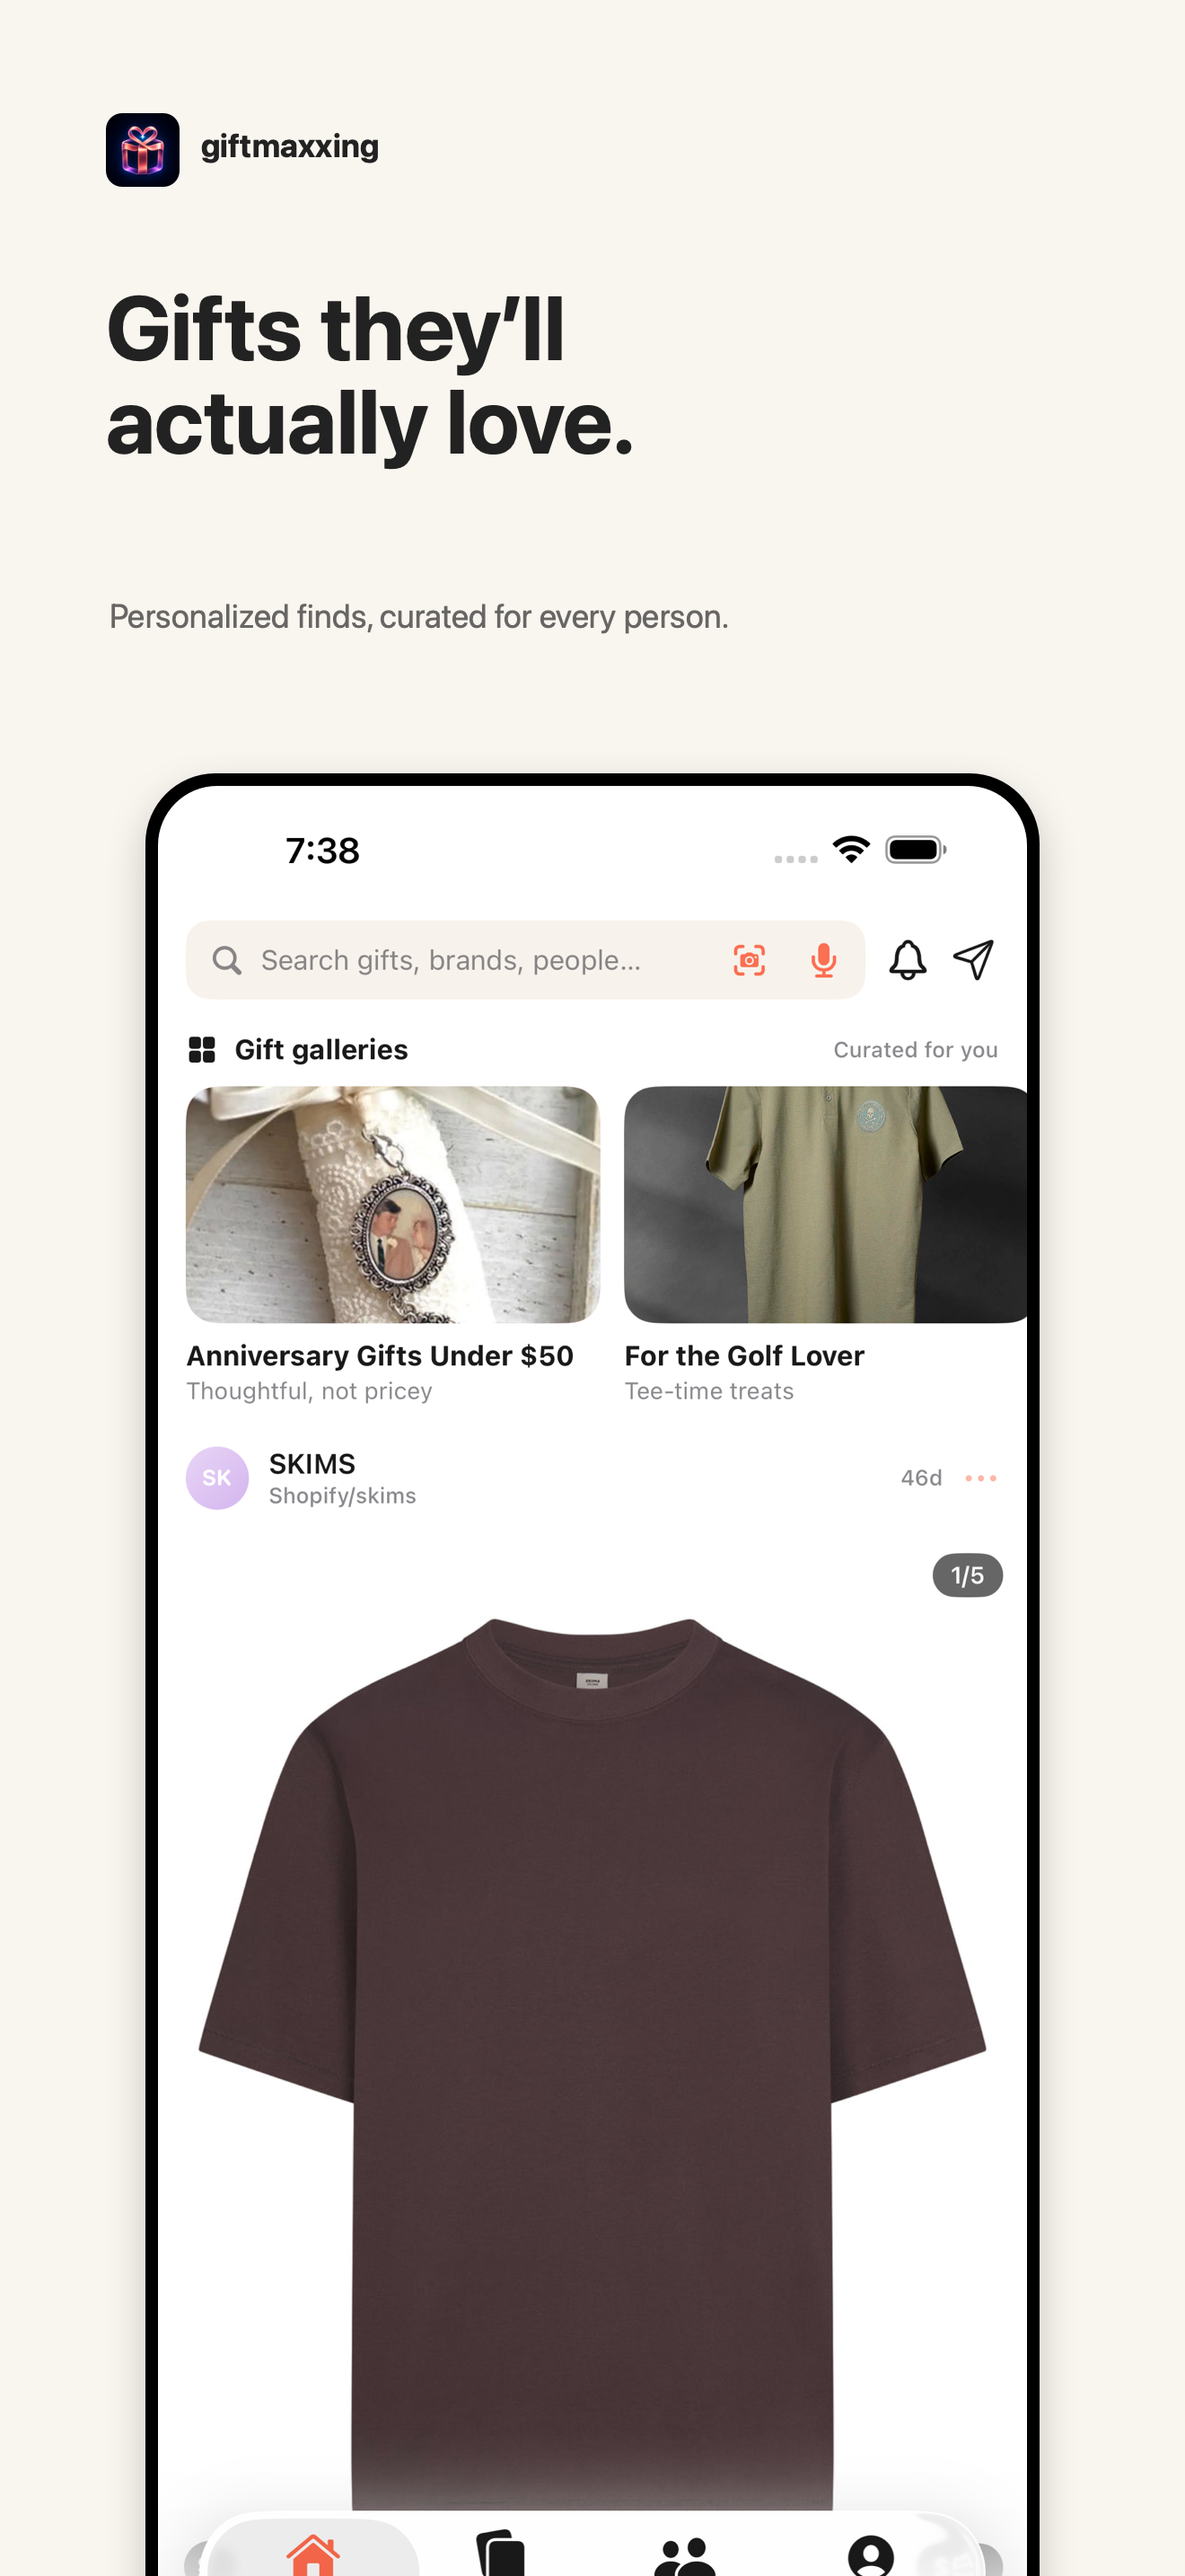
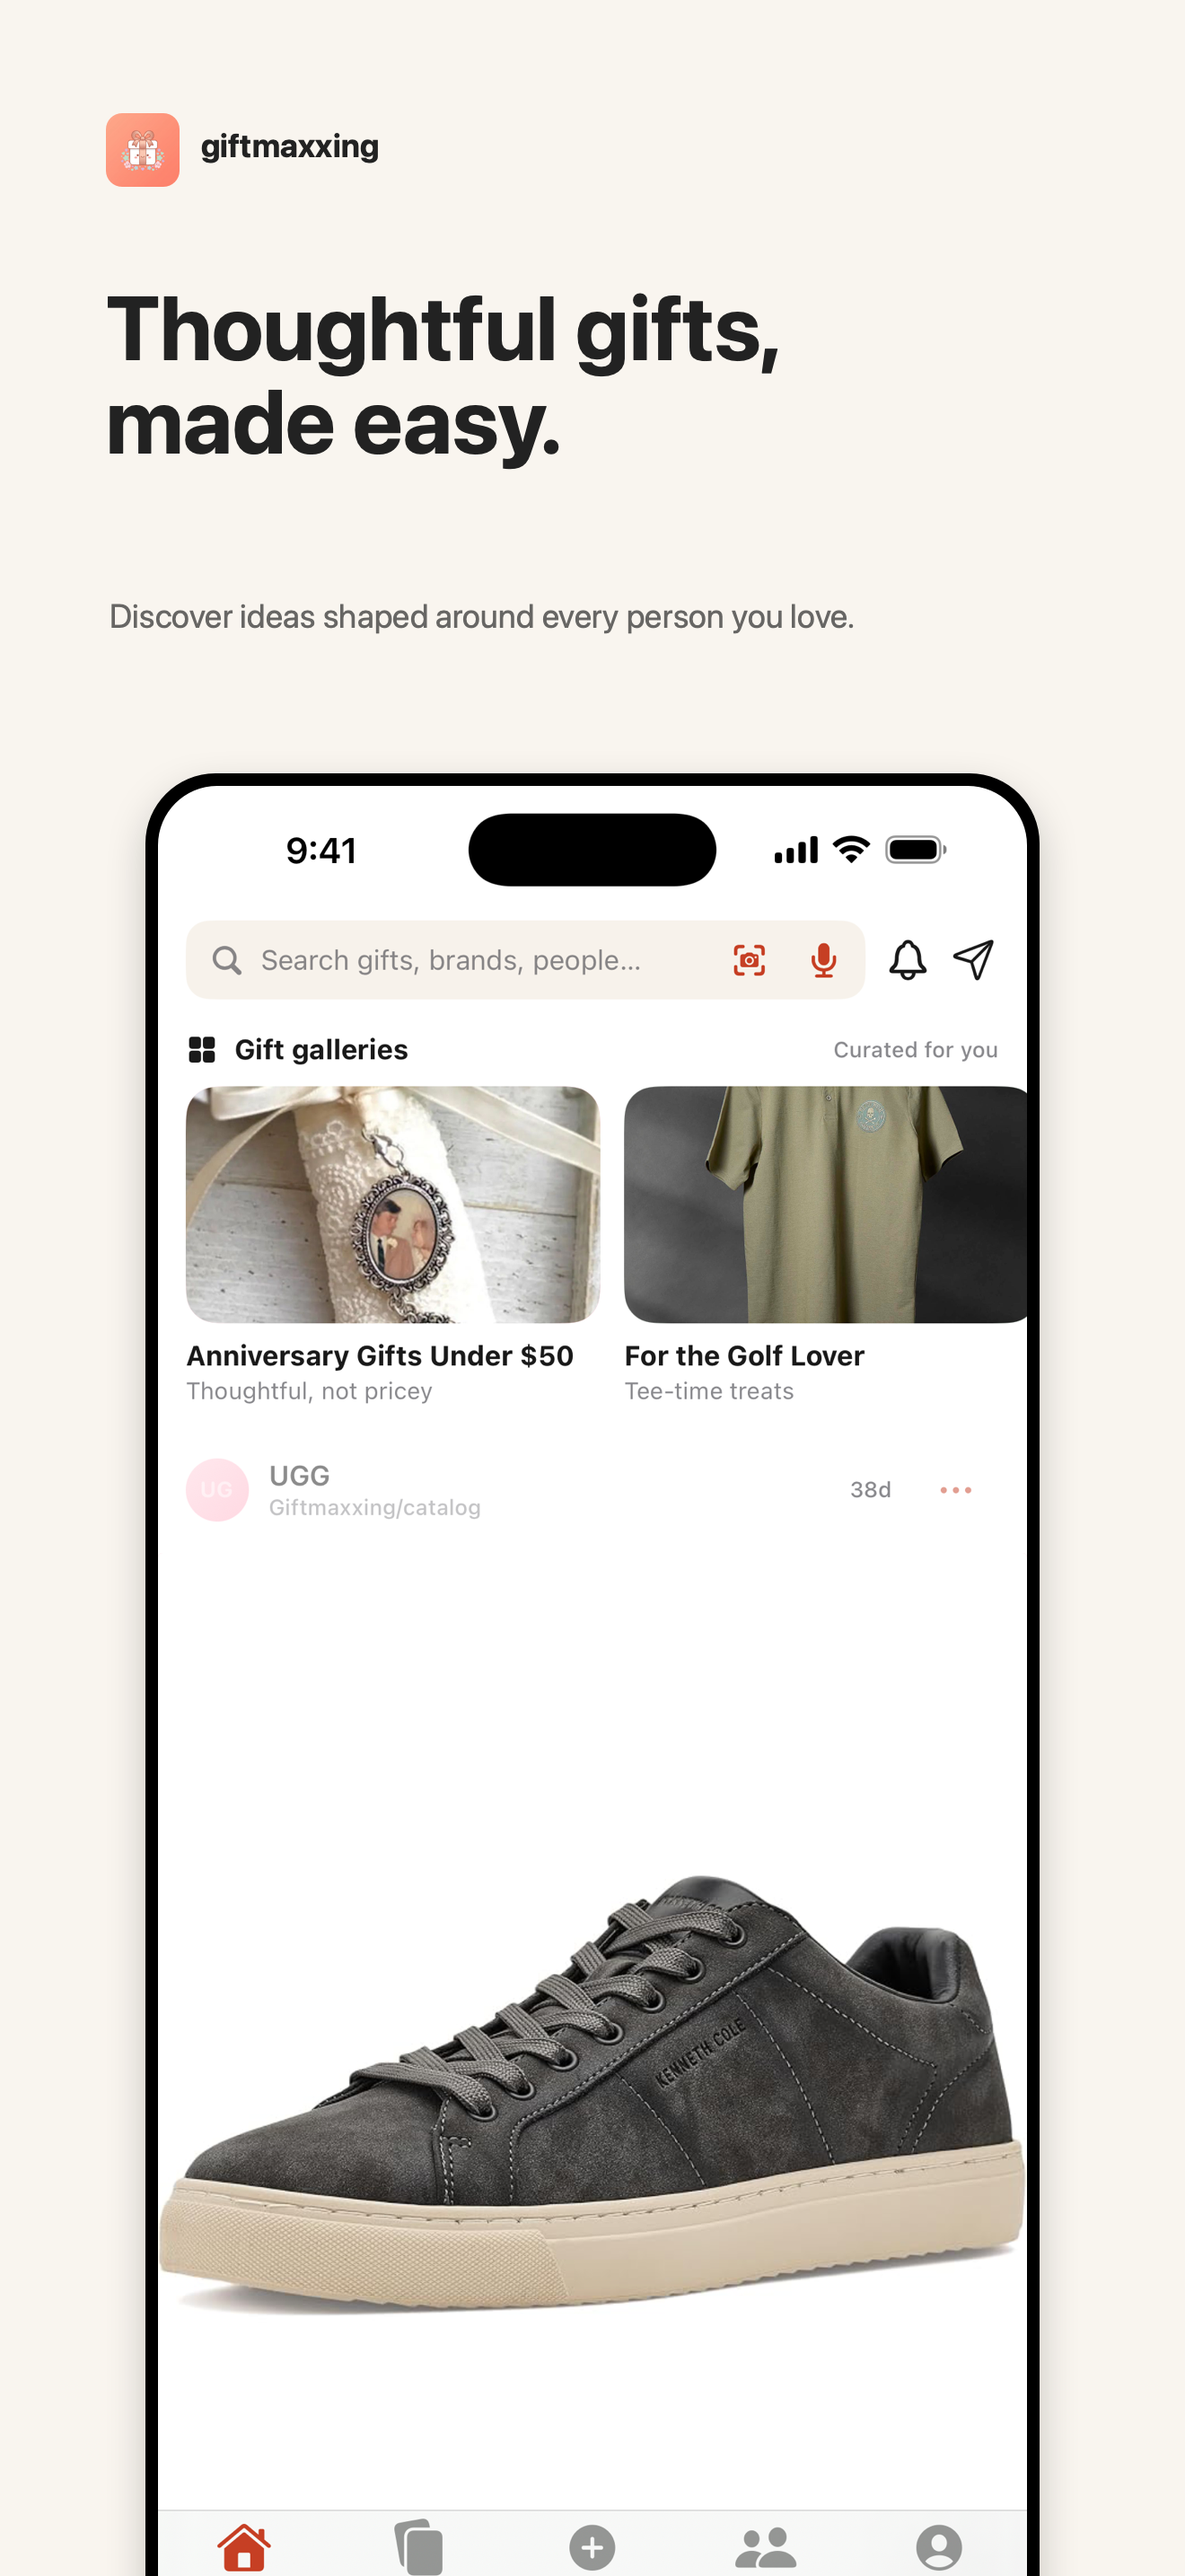
Add Meta deferred links and refresh App Store shots

diff --git a/Giftmaxxing/App/ContentView.swift b/Giftmaxxing/App/ContentView.swift
@@ -183,6 +183,9 @@ struct ContentView: View {
         .onReceive(NotificationCenter.default.publisher(for: .replayCoachMarks)) { _ in
             withAnimation(.easeOut(duration: 0.25)) { showCoachMarks = true }
         }
+        .onReceive(NotificationCenter.default.publisher(for: .metaDeferredLinkReady)) { _ in
+            drainMetaDeferredLink()
+        }
         .sheet(isPresented: $appState.showBirthdayPerks) {
             BirthdayPerksSheet()
         }
@@ -258,6 +261,7 @@ struct ContentView: View {
             }
         }
         .onAppear {
+            drainMetaDeferredLink()
             drainCaptureInbox()
             PersonalizationStore.migrateLegacyFlagIfNeeded()
             #if DEBUG
@@ -268,7 +272,9 @@ struct ContentView: View {
             // marketing/App Store shots can be taken without hand-navigating.
             if let tab = UserDefaults.standard.string(forKey: "screenshotTab") {
                 switch tab {
+                case "feed": appState.selectedTab = .feed
                 case "swipe": appState.selectedTab = .swipe
+                case "post": appState.selectedTab = .create
                 case "circles": appState.selectedTab = .circles
                 case "you": appState.selectedTab = .you
                 default: break
@@ -298,24 +304,7 @@ struct ContentView: View {
             guard !showSplash else { return }
             Task { await resolveAppGate(userId: newUserId) }
         }
-        .onOpenURL { url in
-            if let circleId = CircleStore.circleId(fromURL: url) {
-                appState.openCircle(circleId)
-                return
-            }
-            // Challenge invites open the NATIVE deck — app users never bounce
-            // to the web guest page.
-            if let challengeId = InviteLink.challengeId(fromURL: url) {
-                appState.pendingChallengeId = challengeId
-                return
-            }
-            guard url.scheme == "giftmaxxing" else { return }
-            if url.host == "create" {
-                appState.selectedTab = .create
-                return
-            }
-            drainCaptureInbox()
-        }
+        .onOpenURL(perform: handleIncomingURL)
         .sheet(item: Binding(
             get: { appState.pendingChallengeId.map(ChallengeRef.init) },
             set: { appState.pendingChallengeId = $0?.id }
@@ -323,6 +312,30 @@ struct ContentView: View {
             ChallengeSwipeView(challengeId: ref.id)
                 .environmentObject(authManager)
         }
+    }
+
+    private func drainMetaDeferredLink() {
+        guard let url = MetaDeferredLink.takePendingURL() else { return }
+        handleIncomingURL(url)
+    }
+
+    private func handleIncomingURL(_ url: URL) {
+        if let circleId = CircleStore.circleId(fromURL: url) {
+            appState.openCircle(circleId)
+            return
+        }
+        // Challenge invites open the NATIVE deck — app users never bounce
+        // to the web guest page.
+        if let challengeId = InviteLink.challengeId(fromURL: url) {
+            appState.pendingChallengeId = challengeId
+            return
+        }
+        guard url.scheme == "giftmaxxing" else { return }
+        if url.host == "create" {
+            appState.selectedTab = .create
+            return
+        }
+        drainCaptureInbox()
     }
 
     @MainActor

diff --git a/scripts/compose-appstore-screenshots.swift b/scripts/compose-appstore-screenshots.swift
@@ -18,30 +18,37 @@ try FileManager.default.createDirectory(at: output, withIntermediateDirectories:
 let shots = [
     Shot(
         file: "01-home.png",
-        title: "Gifts they’ll\nactually love.",
-        subtitle: "Personalized finds, curated for every person.",
+        title: "Thoughtful gifts,\nmade easy.",
+        subtitle: "Discover ideas shaped around every person you love.",
         background: NSColor(calibratedRed: 0.969, green: 0.949, blue: 0.922, alpha: 1),
         foreground: NSColor(calibratedWhite: 0.10, alpha: 1)
     ),
     Shot(
         file: "02-swipe.png",
-        title: "Swipe until\nit feels right.",
-        subtitle: "Decide for yourself, someone special, or the whole group.",
+        title: "Teach it\ntheir taste.",
+        subtitle: "Swipe through ideas and make every suggestion more personal.",
         background: NSColor(calibratedWhite: 0.075, alpha: 1),
         foreground: .white
     ),
     Shot(
-        file: "03-gallery.png",
-        title: "Every occasion,\nalready curated.",
-        subtitle: "Beautiful shelves by moment, recipient, and budget.",
+        file: "03-post.png",
+        title: "Share finds\nworth gifting.",
+        subtitle: "Post photos and videos that inspire someone’s next gift.",
         background: NSColor(calibratedRed: 1, green: 0.941, blue: 0.925, alpha: 1),
         foreground: NSColor(calibratedWhite: 0.10, alpha: 1)
     ),
     Shot(
         file: "04-circles.png",
-        title: "Group gifts,\nminus the chaos.",
-        subtitle: "Remember the date, invite your people, and pick together.",
+        title: "Plan together,\nwithout the chaos.",
+        subtitle: "Bring friends into circles and make the moment count.",
         background: NSColor(calibratedRed: 0.965, green: 0.955, blue: 0.945, alpha: 1),
+        foreground: NSColor(calibratedWhite: 0.10, alpha: 1)
+    ),
+    Shot(
+        file: "05-you.png",
+        title: "Remember what\nthey really love.",
+        subtitle: "Keep tastes, sizes, posts, and gift ideas in one thoughtful profile.",
+        background: NSColor(calibratedRed: 0.969, green: 0.949, blue: 0.922, alpha: 1),
         foreground: NSColor(calibratedWhite: 0.10, alpha: 1)
     ),
 ]

diff --git a/Giftmaxxing/App/GiftmaxxingApp.swift b/Giftmaxxing/App/GiftmaxxingApp.swift
@@ -1,6 +1,7 @@
 import SwiftUI
 import SwiftData
 import UserNotifications
+import FBSDKCoreKit
 
 // Rebuild nudge: 2026-07-16 — verify Xcode Cloud auto-trigger on main.
 // SwiftUI apps never receive the APNs registration callbacks without a real
@@ -8,6 +9,29 @@ import UserNotifications
 // the device token to them, so no device was ever registered server-side.
 // This adaptor is the missing link in the push pipeline.
 final class AppDelegate: NSObject, UIApplicationDelegate {
+    func application(
+        _ application: UIApplication,
+        didFinishLaunchingWithOptions launchOptions: [UIApplication.LaunchOptionsKey: Any]? = nil
+    ) -> Bool {
+        ApplicationDelegate.shared.application(
+            application,
+            didFinishLaunchingWithOptions: launchOptions
+        )
+        return true
+    }
+
+    func applicationDidBecomeActive(_ application: UIApplication) {
+        MetaDeferredLink.fetchIfNeeded()
+    }
+
+    func application(
+        _ app: UIApplication,
+        open url: URL,
+        options: [UIApplication.OpenURLOptionsKey: Any] = [:]
+    ) -> Bool {
+        ApplicationDelegate.shared.application(app, open: url, options: options)
+    }
+
     func application(
         _ application: UIApplication,
         didRegisterForRemoteNotificationsWithDeviceToken deviceToken: Data

diff --git a/Giftmaxxing/Services/MetaDeferredLink.swift b/Giftmaxxing/Services/MetaDeferredLink.swift
@@ -1,0 +1,34 @@
+import AppTrackingTransparency
+import FBSDKCoreKit
+import Foundation
+
+@MainActor
+enum MetaDeferredLink {
+    private static var requestStarted = false
+    private static var pendingURL: URL?
+
+    static func fetchIfNeeded() {
+        guard !requestStarted else { return }
+        requestStarted = true
+
+        ATTrackingManager.requestTrackingAuthorization { status in
+            guard status == .authorized else { return }
+            DispatchQueue.main.async {
+                AppLinkUtility.fetchDeferredAppLink { url, _ in
+                    guard let url else { return }
+                    pendingURL = url
+                    NotificationCenter.default.post(name: .metaDeferredLinkReady, object: nil)
+                }
+            }
+        }
+    }
+
+    static func takePendingURL() -> URL? {
+        defer { pendingURL = nil }
+        return pendingURL
+    }
+}
+
+extension Notification.Name {
+    static let metaDeferredLinkReady = Notification.Name("metaDeferredLinkReady")
+}
